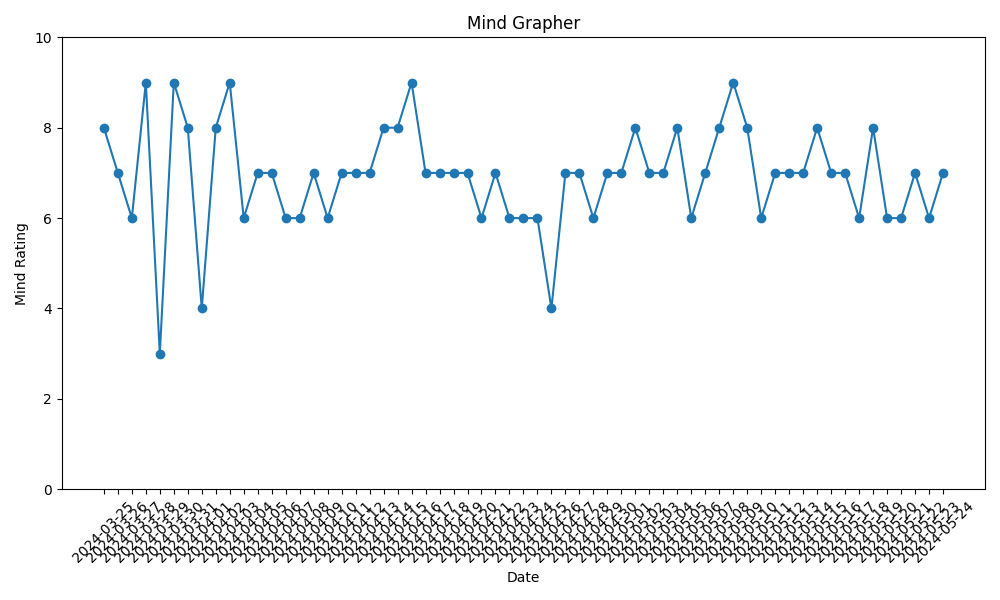
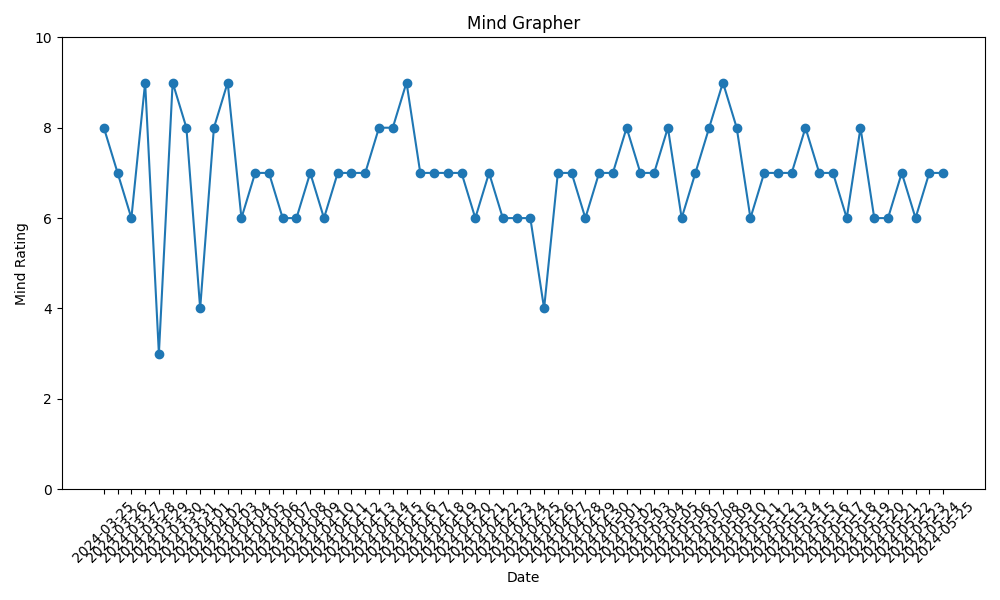
Update mind grapher daily

Changed region(s): [[0.124, 0.81, 0.961, 0.96], [0.372, 0.12, 0.961, 0.54], [0.124, 0.12, 0.372, 0.6]]

diff --git a/daily/2024-05-26.md b/daily/2024-05-26.md
@@ -1,0 +1,23 @@
+# How are you doing today?
+
+> This is a daily program written by the late Sibyl F.Partridge. I just read it from Dale Carnegie's book “How to Stop Worrying and Start Living”. Mental health is very important but it is often overlooked. I hope to remind myself how to live through daily self-check.
+ 
+- [ ] ***Just for today I will be happy***. This assumes that what Abraham Lincoln said is true, that “most folks are about as happy as they make up their minds to be”. Happiness is from within; it is not a matter of externals.
+
+- [ ] ***Just for today I will try to adjust myself to what is, and not try to adjust to everything to my own desires***. I will take my family, my business, and my luck as they come and fit myself to them.
+
+- [ ] ***Just for today I will take care of my body, I will exercise it, care for it, nourish it, not abuse it nor neglect it***, so that it will be a perfect machine for my bidding.
+
+- [ ] ***Just for today I will try to strengthen my mind***. I will learn something useful. I will not be a mental loafer. I will read something that requires effort, thought and concentration.
+
+- [ ] ***Just for today I will exercise my souls in three ways: I will do somebody a good turn and not get found out. I will do at least two things I don’t want to do, as William James suggests, just for exercise.***
+
+- [ ] ***Just for today I will be agreeable***. I will look as well as I can, dress as becomingly as possible, talk low, act courteously, be liberal with praise, criticize not at all, nor find fault with anything and not try to regulate nor improve anyone.
+
+- [ ] ***Just for today I will try to live through this day only, not to tackle my whole life problem at once***. I can do things for twelve hours that would appall me if I had to keep them up for a lifetime.
+
+- [ ] ***Just for today I will have a programme***. I will write down what I expect to do every hour. I may not follow it exactly, but I will have it. It will eliminate two pests, hurry and indecision.
+
+- [ ] ***Just for today I will have a quiet half-hour all by myself and relax***. In this half-hour sometimes I will think of God, so as to get a little more perspective into my life.
+
+- [ ] ***Just for today, I will be unafraid***, especially I will not be afraid to be happy, to enjoy what is beautiful, to love, and to believe that those I love, love me.

diff --git a/daily/2024-05-25.md b/daily/2024-05-25.md
@@ -1,4 +1,5 @@
 # How are you doing today?
+⭐⭐⭐⭐⭐⭐⭐
 
 > This is a daily program written by the late Sibyl F.Partridge. I just read it from Dale Carnegie's book “How to Stop Worrying and Start Living”. Mental health is very important but it is often overlooked. I hope to remind myself how to live through daily self-check.
  
